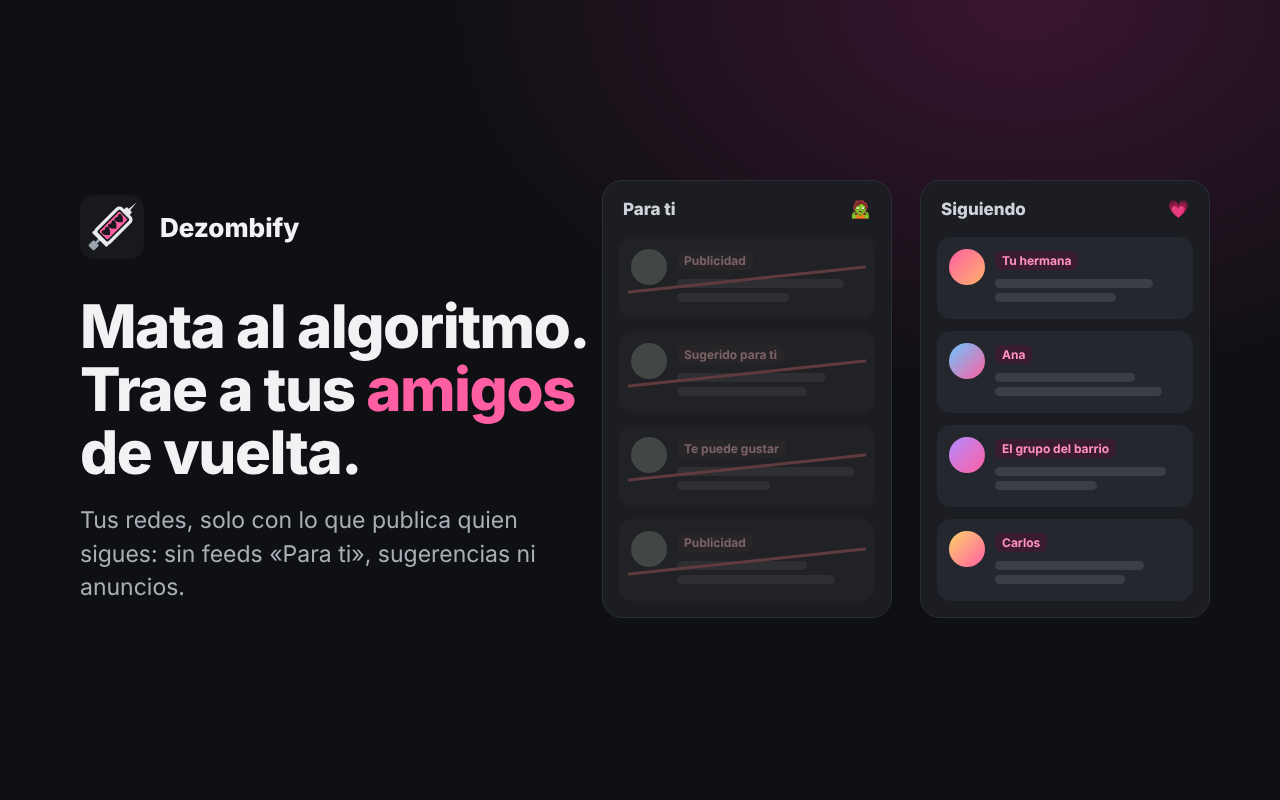
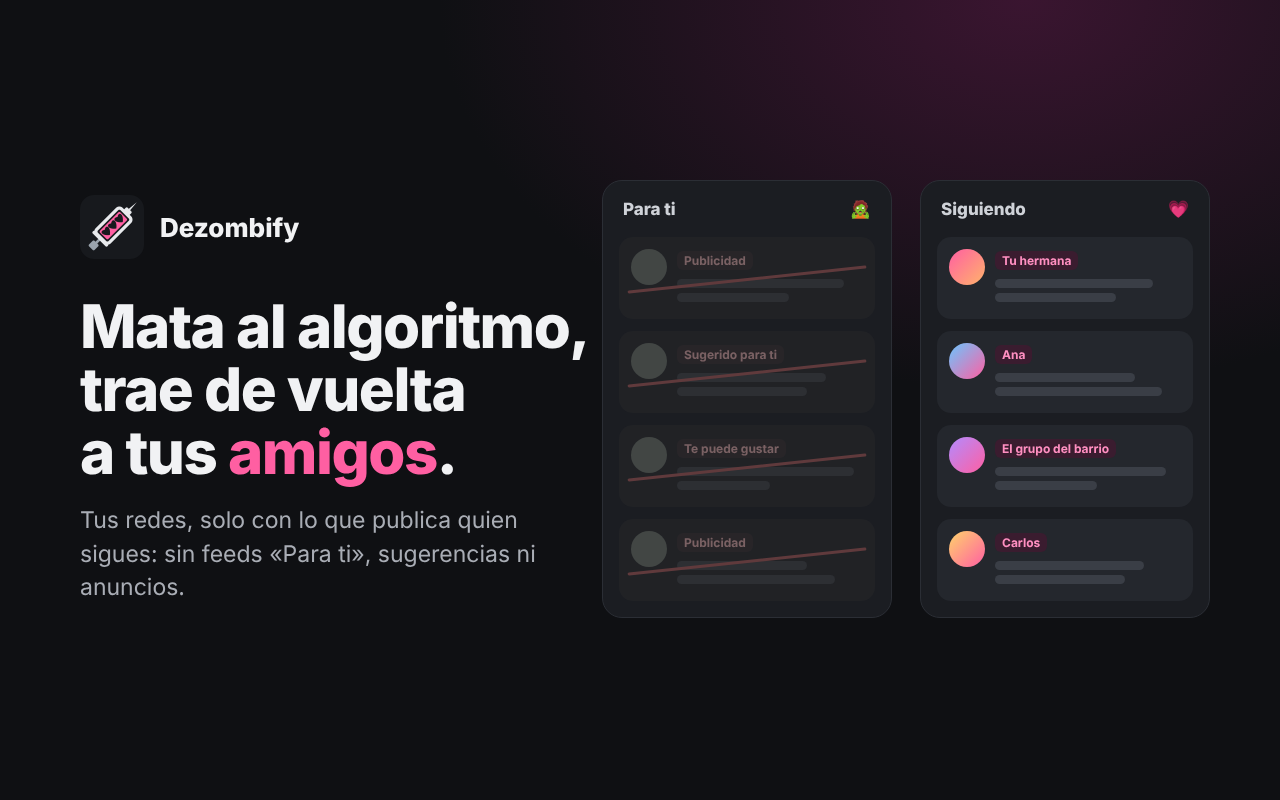
Imágenes de la tienda: nuevo lema «Mata al algoritmo, trae de vuelta a tus amigos»
Cambia el titular de la captura 1 (es/en) y la regenera.

Claude-Session: https://claude.ai/code/session_01NeU9qfa1oe78vsu6oic1XX

Changed region(s): [[0.0625, 0.4375, 0.4688, 0.625]]

diff --git a/store/src/store.html b/store/src/store.html
@@ -82,11 +82,11 @@ em{font-style:normal;color:#ff5fa2}
  </div>
 </section>
 <script>
-const T={es:{h1:'Mata al algoritmo.<br>Trae a tus <em>amigos</em> de vuelta.',l1:'Tus redes, solo con lo que publica quien sigues: sin feeds «Para ti», sugerencias ni anuncios.',foryou:'Para ti',following:'Siguiendo',ad:'Publicidad',sugg:'Sugerido para ti',viral:'Te puede gustar',f1:'Tu hermana',f2:'Ana',f3:'El grupo del barrio',f4:'Carlos',
+const T={es:{h1:'Mata al algoritmo,<br>trae de vuelta<br>a tus <em>amigos</em>.',l1:'Tus redes, solo con lo que publica quien sigues: sin feeds «Para ti», sugerencias ni anuncios.',foryou:'Para ti',following:'Siguiendo',ad:'Publicidad',sugg:'Sugerido para ti',viral:'Te puede gustar',f1:'Tu hermana',f2:'Ana',f3:'El grupo del barrio',f4:'Carlos',
 h2:'Cada red, sus opciones.<br><em>Solo cuando estás en ella.</em>',l2:'Abre el panel en la red que estás usando y decide qué ocultar: lo que comparten, la actividad, Reels o Shorts.',
 h3:'Nueve redes sociales,<br><em>un solo interruptor.</em>',l3:'Todas las opciones juntas en la página de ajustes. Los cambios se aplican al momento.',
 h4:'Sin cuentas, sin datos, <em>sin trampas</em>',l4:'Todo ocurre en tu navegador: Dezombify no recoge ni envía nada. Gratis y de código abierto.',p1:'🔒 Nada sale de tu navegador',p2:'⚡ Cambios al momento',p3:'🧩 Código abierto',p4:'💗 Gratis',tag:'Mata al algoritmo',mq:'Mata al algoritmo de tus redes sociales y trae a tus amigos de vuelta a casa, sanos y salvos.'},
-en:{h1:'Kill the algorithm.<br>Bring your <em>friends</em> back.',l1:'Your social networks with only what the people you follow post: no “For you” feeds, suggestions or ads.',foryou:'For you',following:'Following',ad:'Sponsored',sugg:'Suggested for you',viral:'You might like',f1:'Your sister',f2:'Anna',f3:'Neighbourhood group',f4:'Charlie',
+en:{h1:'Kill the algorithm,<br>bring your <em>friends</em> back.',l1:'Your social networks with only what the people you follow post: no “For you” feeds, suggestions or ads.',foryou:'For you',following:'Following',ad:'Sponsored',sugg:'Suggested for you',viral:'You might like',f1:'Your sister',f2:'Anna',f3:'Neighbourhood group',f4:'Charlie',
 h2:'Each network, its own options.<br><em>Only when you’re on it.</em>',l2:'Open the panel on the network you’re using and choose what to hide: shares, activity, Reels or Shorts.',
 h3:'Nine social networks,<br><em>one switch.</em>',l3:'Every option together on the settings page. Changes apply instantly.',
 h4:'No accounts, no data, <em>no tricks</em>',l4:'Everything happens in your browser: Dezombify collects and sends nothing. Free and open source.',p1:'🔒 Nothing leaves your browser',p2:'⚡ Instant changes',p3:'🧩 Open source',p4:'💗 Free',tag:'Kill the algorithm',mq:'Kill the algorithm of your social networks and bring your friends back home, safe and sound.'}};
